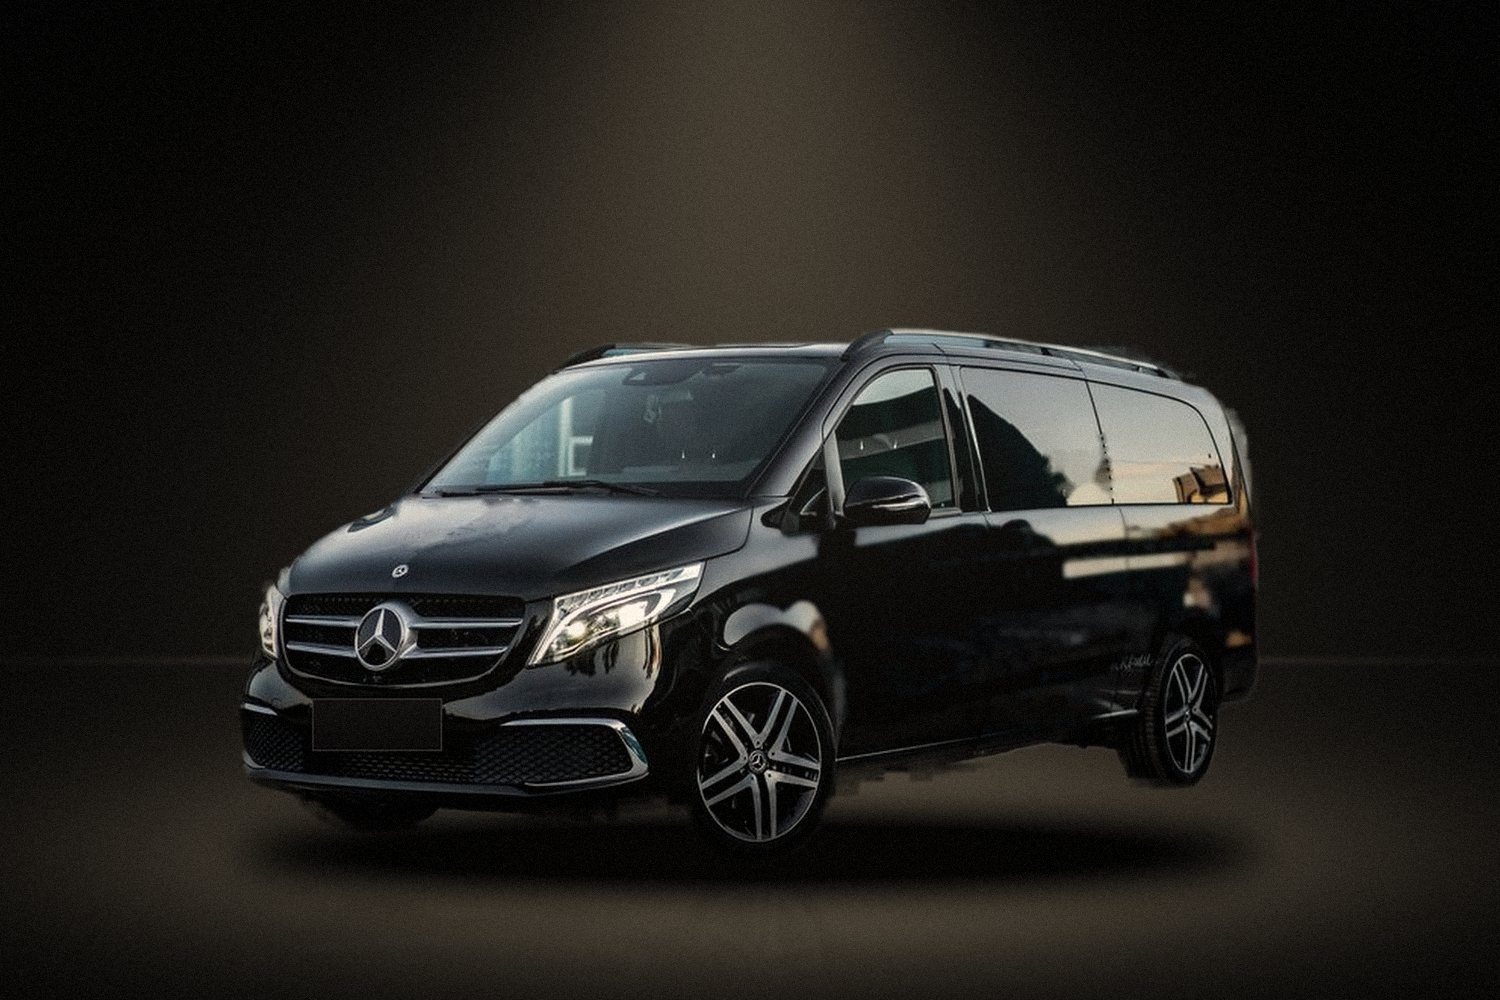
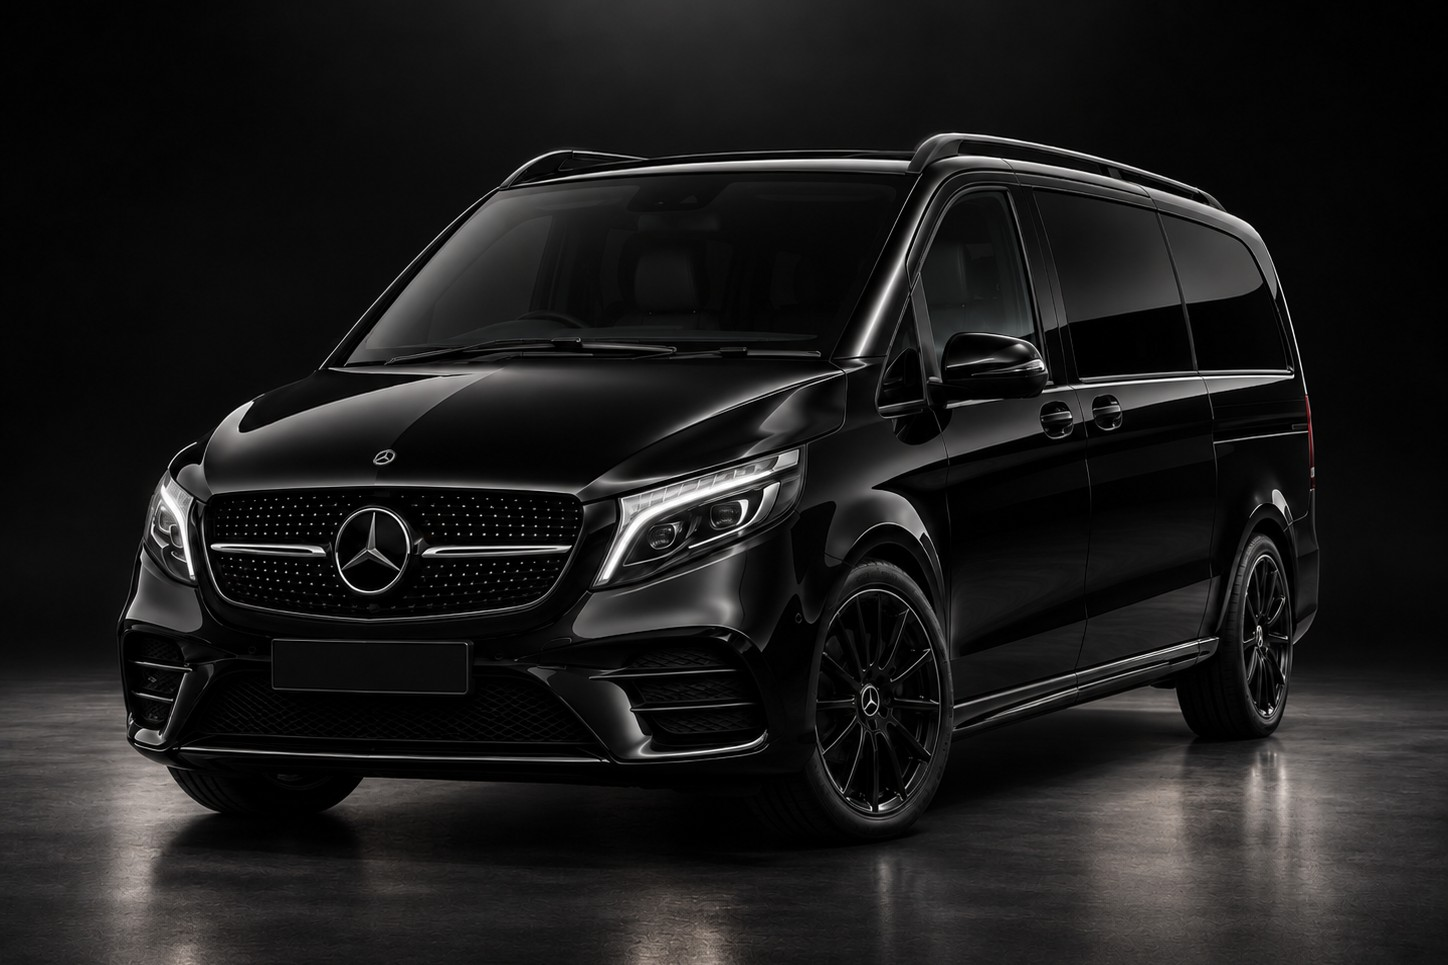
Add files via upload

diff --git a/public/config.js b/public/config.js
@@ -100,7 +100,7 @@ window.SITE_CONFIG = {
           { label: "Motorisation", valeur: "Électrique" },
           { label: "Passagers", valeur: "Jusqu'à 4" }
         ],
-        image: "assets/img/tesla-model-y.jpg?v=2",
+        image: "assets/img/tesla-model-y.jpg?v=3",
         imageAlt: "Tesla Model Y noire"
       },
       {
@@ -114,7 +114,7 @@ window.SITE_CONFIG = {
           { label: "Format", valeur: "Van" },
           { label: "Passagers", valeur: "Jusqu'à 7" }
         ],
-        image: "assets/img/mercedes-classe-v.jpg?v=1",
+        image: "assets/img/mercedes-classe-v.jpg?v=2",
         imageAlt: "Mercedes-Benz Classe V noir"
       }
     ]
